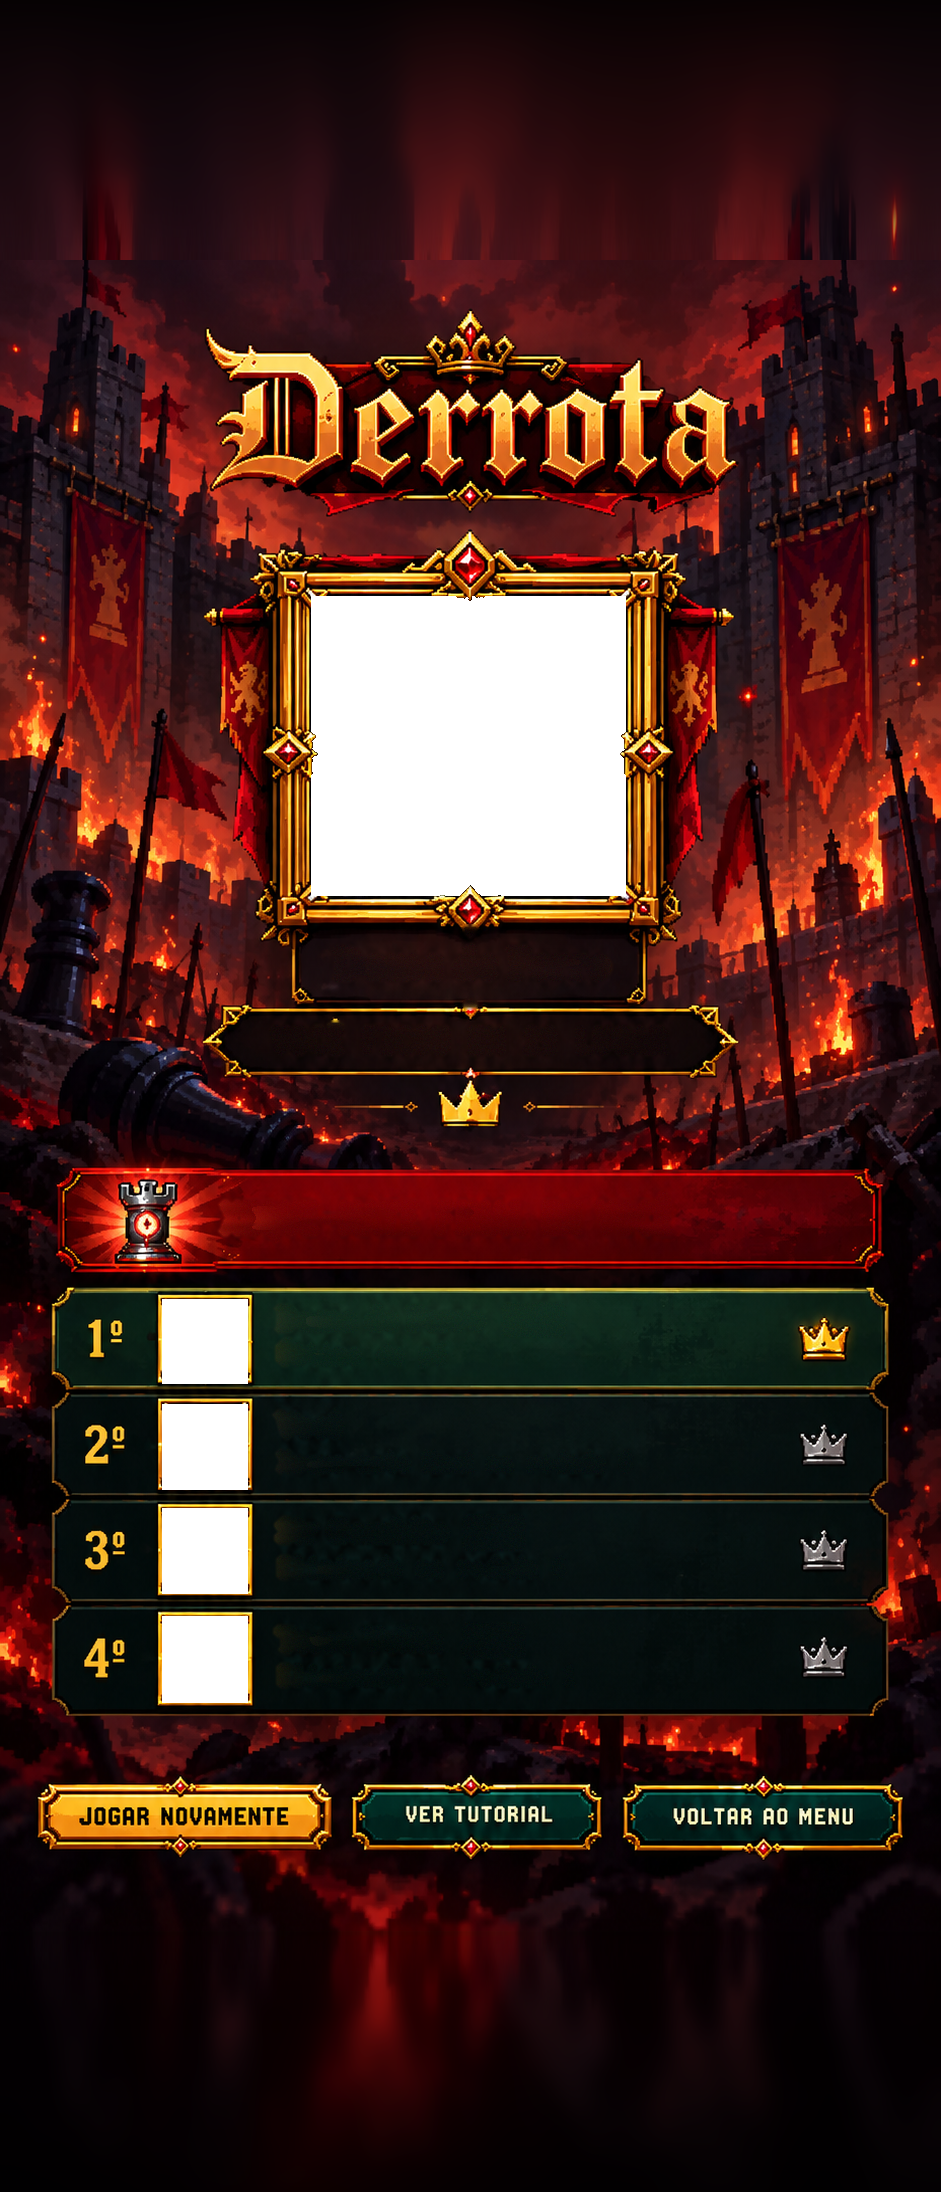
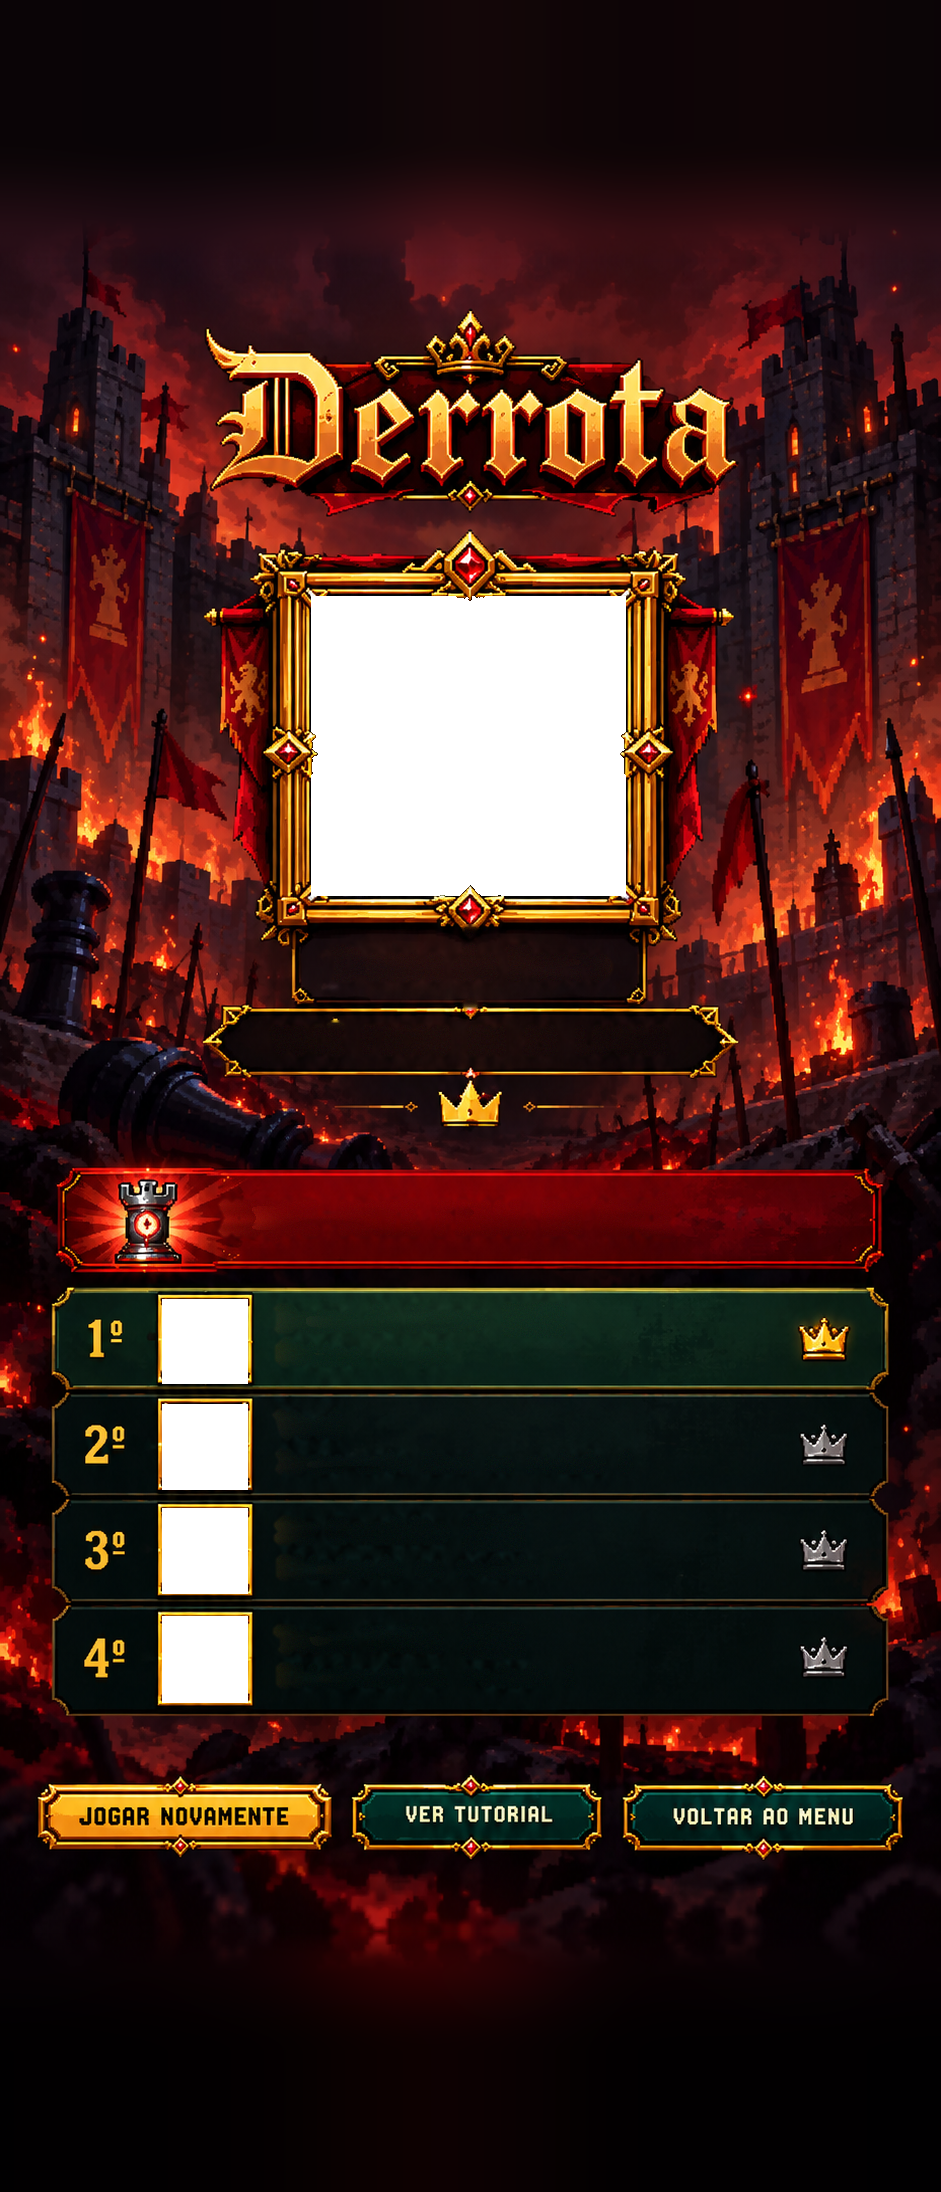
R177l: resultado em pé — faixas de cima/baixo viram degradê escuro liso; arte maior (corta 24 px de cenário nas laterais)
Claude-Session: https://claude.ai/code/session_016vKvXoMfUjcNC2AWvYdkWV

diff --git a/tools/visual_r177j_cel.py b/tools/visual_r177j_cel.py
@@ -118,26 +118,29 @@ def jewel_mask(img, hole, jewels):
 
 
 def extend(rgb):
-    """EXT px acima e abaixo: só o cenário da beira da arte (sem título nem botões), espichado, desfocado e escurecendo."""
+    """EXT px acima e abaixo (R177l): a arte termina num degradê escuro e liso (vinheta) — sem cenário borrado/esticado.
+    Os primeiros px espelham a própria beira da arte (sem emenda) e somem rápido no tom escuro da cena."""
     H, W, _ = rgb.shape
-    def band(strip, flip, dark=0.72):
-        st = strip[::-1] if flip else strip
-        b = cv2.resize(st, (W, EXT), interpolation=cv2.INTER_CUBIC).astype(np.float32)
-        b1 = cv2.GaussianBlur(b, (0, 0), sigmaX=10, sigmaY=8)
-        b2 = cv2.GaussianBlur(b, (0, 0), sigmaX=40, sigmaY=30)
-        out = np.empty_like(b)
+    F = 46   # px de transição espelhada
+    def band(edge_rows, mirror_rows, dark):
+        base = cv2.GaussianBlur(edge_rows.astype(np.float32).mean(0, keepdims=True), (0, 0), sigmaX=60, sigmaY=0.1)[0]
+        lum = base.mean(-1, keepdims=True)
+        tint = base * 0.35 + lum * 0.10                      # o tom da cena, bem escuro
+        out = np.empty((EXT, W, 3), np.float32)
+        mir = mirror_rows.astype(np.float32)
         for i in range(EXT):
-            t = (i + 1) / EXT   # 0 junto da arte → 1 na borda
-            row = b[i] * max(0.0, 1 - 3 * t) + b1[i] * min(1.0, 3 * t) * (1 - t) + b2[i] * t
-            if t < 1 / 3:
-                row = b[i] * (1 - 3 * t) + b1[i] * (3 * t)
-            else:
-                u = (t - 1 / 3) / (2 / 3)
-                row = b1[i] * (1 - u) + b2[i] * u
-            out[i] = row * (1.0 - dark * t ** 1.1)
+            t = i / (EXT - 1)
+            u = min(1.0, i / 120.0)
+            u = u * u * (3 - 2 * u)                          # smoothstep: beira → escuro
+            col = base * (1 - u) + tint * dark * u
+            if i < F:
+                w = 1.0 - i / F
+                w = w * w
+                col = mir[i] * w + col * (1 - w)
+            out[i] = col
         return out
-    top = band(rgb[0:34], True, 0.85)[::-1]            # a beira de cima, espelhada e espichada para cima
-    bot = band(rgb[H - 64:H], True)               # a beira de baixo (chão, abaixo dos botões)
+    top = band(rgb[0:6], rgb[1:F + 1], 0.6)[::-1]
+    bot = band(rgb[H - 6:H], rgb[H - 1 - F:H - 1][::-1], 0.6)
     return np.concatenate([top, rgb.astype(np.float32), bot], 0).clip(0, 255).astype(np.uint8)
 
 
